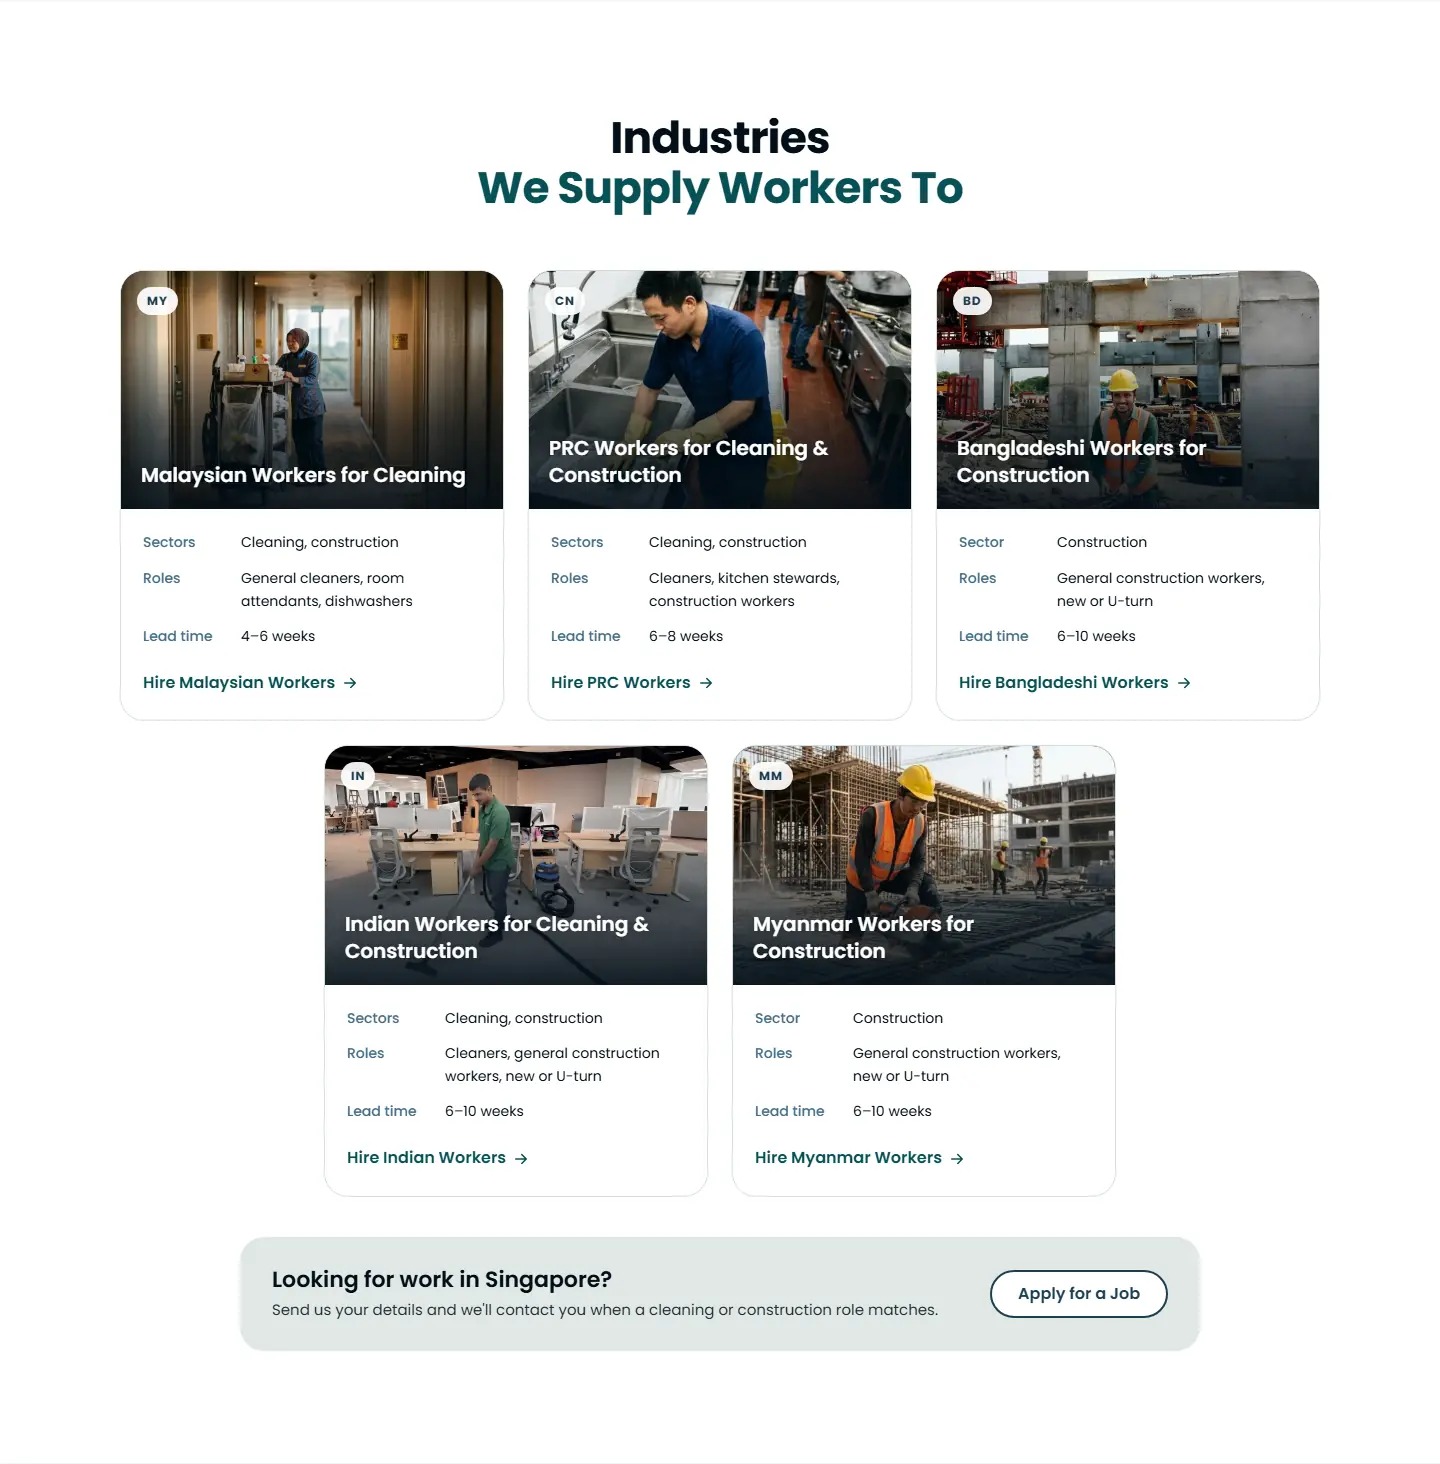
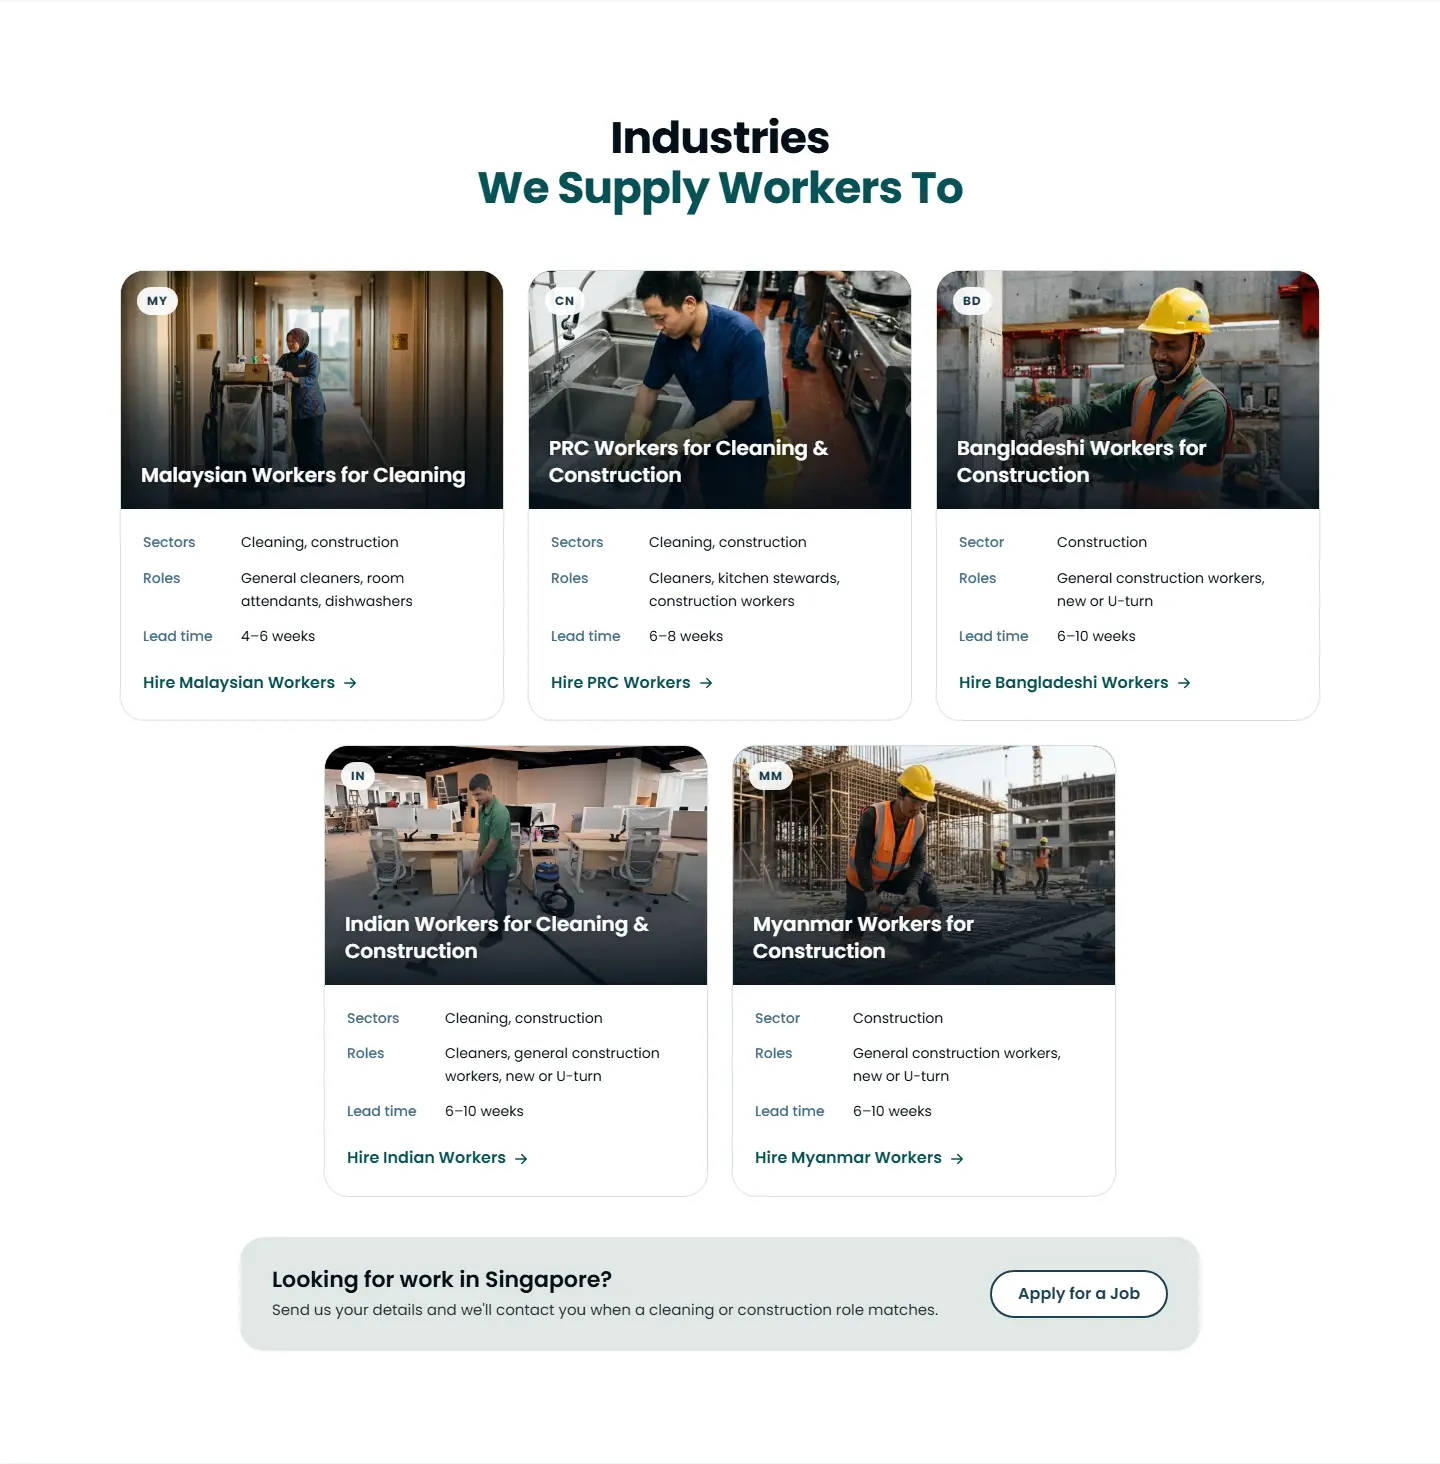
Country card: new Bangladesh photo

Changed region(s): [[0.625, 0.1844, 0.9375, 0.3381]]

diff --git a/landing-pages/index.html b/landing-pages/index.html
@@ -267,7 +267,7 @@
         <a class="text-link" data-link="hireForm" data-country="PRC" href="#request-workers">Hire PRC Workers <svg class="ico"><use href="#i-arrow"/></svg></a>
       </article>
       <article class="country-card">
-        <div class="country-photo has-photo"><img src="images/home/country-bangladesh.webp" width="1200" height="750" alt="Smiling construction worker in a hard hat and safety vest handling steel rebar at a building site" title="Bangladeshi workers for construction" loading="lazy" decoding="async"><span class="code">BD</span><h3>Bangladeshi Workers for Construction</h3></div>
+        <div class="country-photo has-photo"><img src="images/home/country-bangladesh.webp" width="1200" height="750" alt="Smiling construction worker in a yellow hard hat and orange safety vest drilling into steel rebar on a building site" title="Bangladeshi workers for construction" loading="lazy" decoding="async"><span class="code">BD</span><h3>Bangladeshi Workers for Construction</h3></div>
         <dl>
           <div><dt>Sector</dt><dd>Construction</dd></div>
           <div><dt>Roles</dt><dd>General construction workers, new or U-turn</dd></div>

diff --git a/CLAUDE.md b/CLAUDE.md
@@ -15,7 +15,7 @@ landing-pages/        THE ONLY FOLDER THAT GETS DEPLOYED
   images/home/*.webp    homepage photos
 process/              design-system.html (internal only, never deployed) + design-system-img/ + snippets/
 scripts/python/       capture.py · mobile_audit.py · ds_shots.py · build_preview.py · strips.py
-output/               backups/v1 … v33 and screenshots: local only, ignored by git
+output/               backups/v1 … v34 and screenshots: local only, ignored by git
 ```
 A new page would go in `landing-pages/<page-slug>/index.html`. Nothing else belongs at the root.
 
